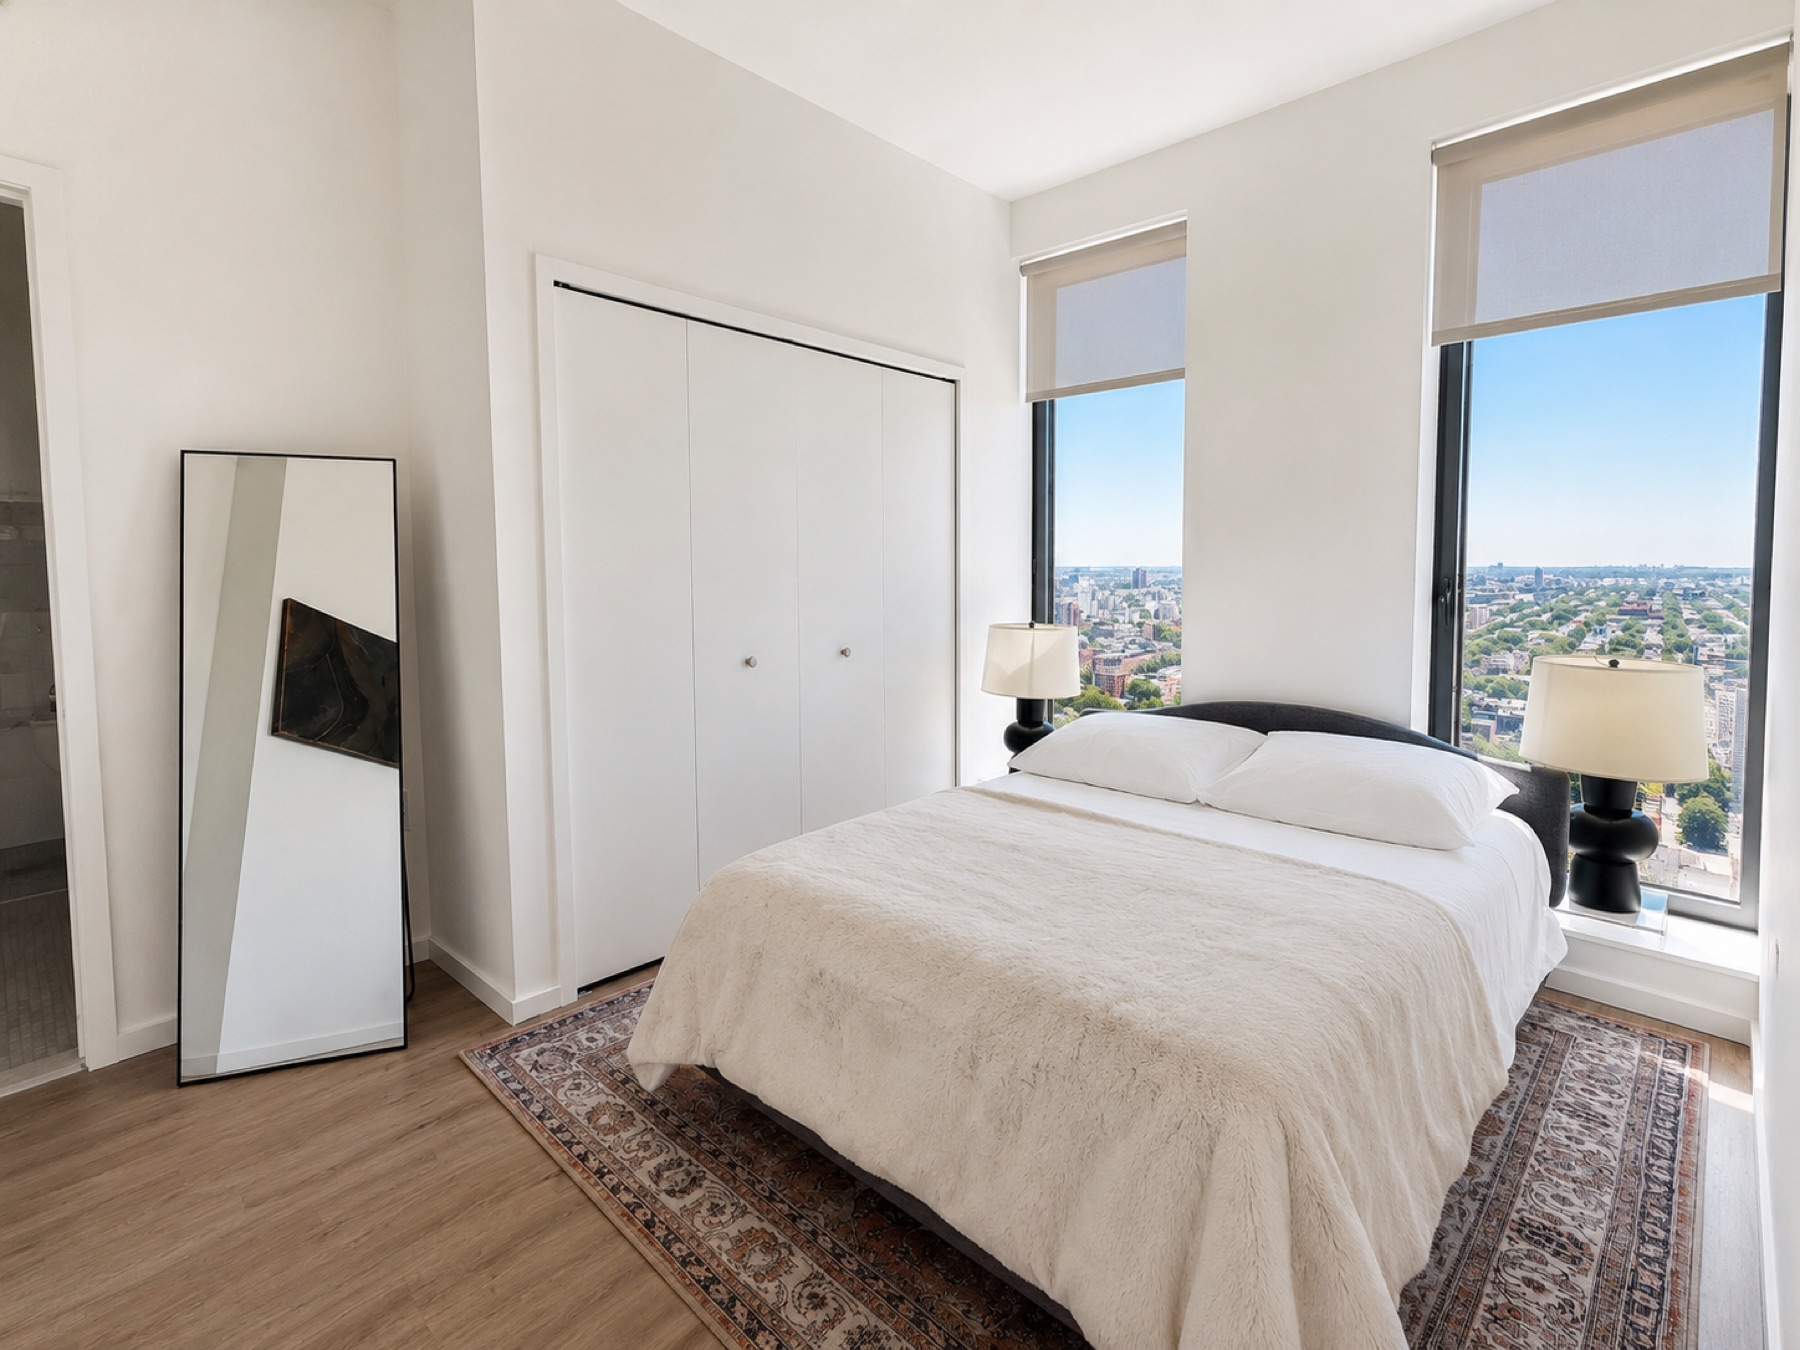
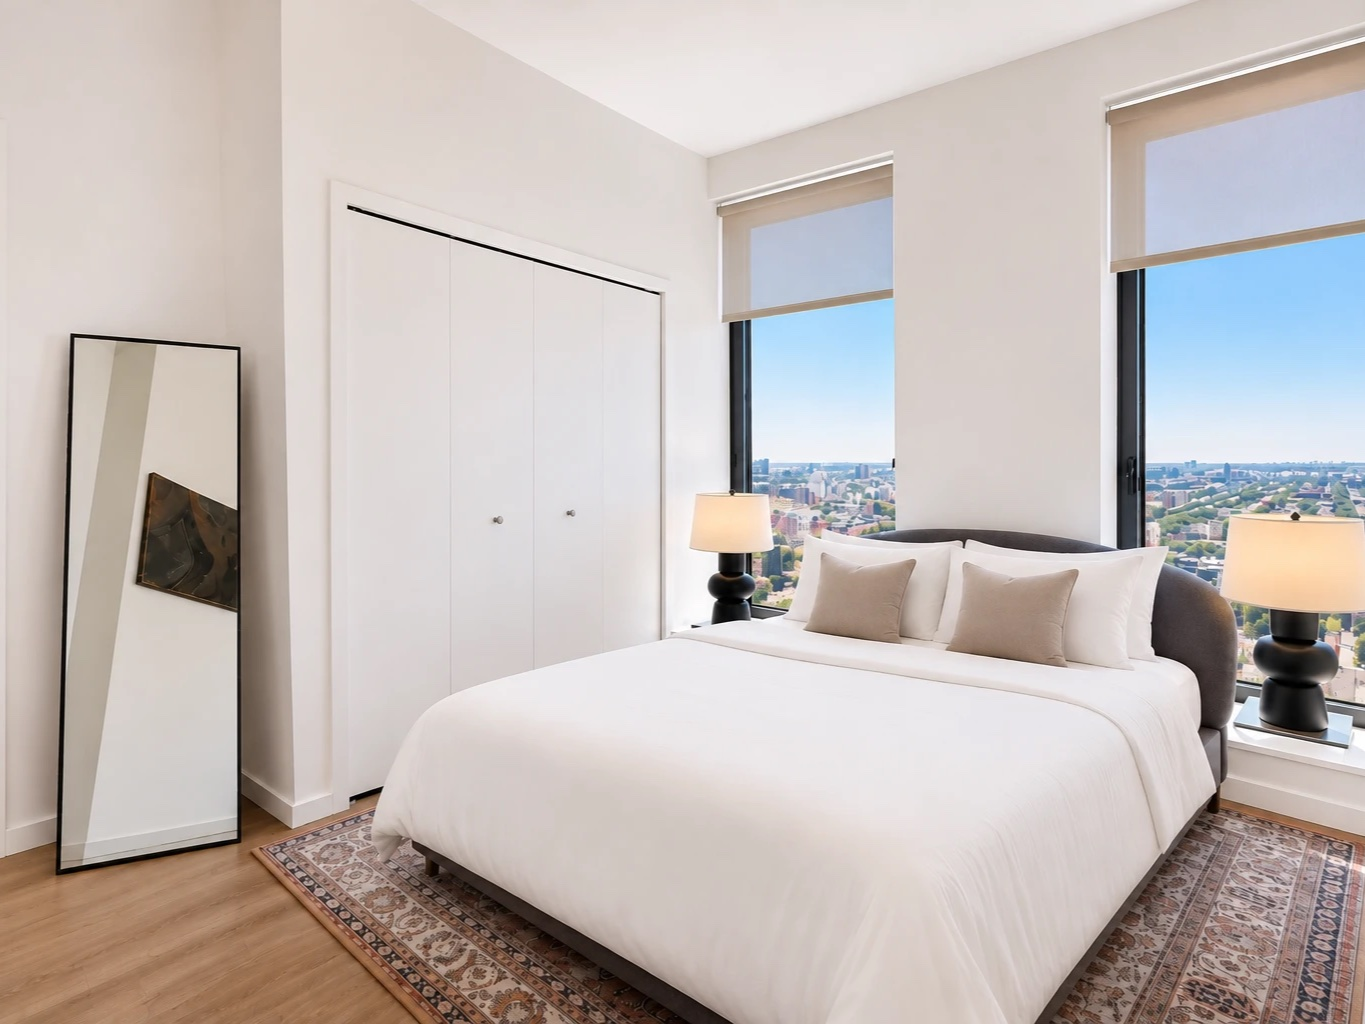
Axel 27B: refresh photos 1 to 5
Replaced the bedroom, kitchen and three living room shots with the new set,
matched to the slot each one duplicates. Photos 6 to 10 (laundry, bathroom,
gym, view, pool) are unchanged.

Sources are 3:2, centre-cropped to 4:3 at 1365x1024 so the lightbox shows no
grey bands. Card regenerated from the new photo 1. ?v=2 on all six filenames,
on the page and on the availability card.

diff --git a/availability.html b/availability.html
@@ -219,7 +219,7 @@
 
     <a class="pcard" href="morningside-108.html" data-id="p3" data-bld="b-morningside" data-hood="Morningside Heights" data-beds="3"><div class="img" data-bg="30-morningside-drive-108-git/30morn-108-1-card.jpg"></div><div class="body"><div><div class="name">30 Morningside Drive</div><div class="unit">Unit 108 &middot; Duplex</div><div class="hood">Morningside Heights, Manhattan</div></div><div><div class="meta"><span>3 Beds</span><span>2.5 Baths</span></div><div class="row"><span></span><span class="lnk">Inquire &#8594;</span></div></div></div></a>
 
-    <div class="pcard" data-id="p4" data-bld="b-axel" data-hood="Clinton Hill" data-beds="1"><a class="pcard-a" href="axel-27b.html"><div class="img" data-bg="the-axel-27B-git/Axel-27B-1-card.jpg"></div><div class="body"><div><div class="name">The Axel</div><div class="unit">Unit 27B</div><div class="hood">Clinton Hill, Brooklyn</div></div><div><div class="meta"><span>1 Bed</span><span>1 Bath</span></div><div class="row"><span></span><span class="lnk">View home &#8594;</span></div></div></div></a><div class="pcard-foot"><span class="avail-badge" data-avail-badge="axel-27b"></span><a class="pcard-book" href="axel-27b.html">Check dates &amp; price</a></div></div>
+    <div class="pcard" data-id="p4" data-bld="b-axel" data-hood="Clinton Hill" data-beds="1"><a class="pcard-a" href="axel-27b.html"><div class="img" data-bg="the-axel-27B-git/Axel-27B-1-card.jpg?v=2"></div><div class="body"><div><div class="name">The Axel</div><div class="unit">Unit 27B</div><div class="hood">Clinton Hill, Brooklyn</div></div><div><div class="meta"><span>1 Bed</span><span>1 Bath</span></div><div class="row"><span></span><span class="lnk">View home &#8594;</span></div></div></div></a><div class="pcard-foot"><span class="avail-badge" data-avail-badge="axel-27b"></span><a class="pcard-book" href="axel-27b.html">Check dates &amp; price</a></div></div>
 
     <div class="pcard" data-id="p5" data-bld="b-axel" data-hood="Clinton Hill" data-beds="1"><a class="pcard-a" href="axel-21b.html"><div class="img" data-bg="the-axel-21B-git/axel-21B-1-card.jpg"></div><div class="body"><div><div class="name">The Axel</div><div class="unit">Unit 21B</div><div class="hood">Clinton Hill, Brooklyn</div></div><div><div class="meta"><span>1 Bed</span><span>1 Bath</span></div><div class="row"><span></span><span class="lnk">View home &#8594;</span></div></div></div></a><div class="pcard-foot"><span class="avail-badge" data-avail-badge="axel-21b"></span><a class="pcard-book" href="axel-21b.html">Check dates &amp; price</a></div></div>
 
@@ -281,7 +281,7 @@
       id:'b-axel', name:'The Axel', sub:'Clinton Hill, Brooklyn',
       lat:40.6855, lng:-73.9695,
       units:[
-        {unit:'27B', meta:'1 Bed, 1 Bath', url:'axel-27b.html', img:'the-axel-27B-git/Axel-27B-1-card.jpg'},
+        {unit:'27B', meta:'1 Bed, 1 Bath', url:'axel-27b.html', img:'the-axel-27B-git/Axel-27B-1-card.jpg?v=2'},
         {unit:'21B', meta:'1 Bed, 1 Bath', url:'axel-21b.html', img:'the-axel-21B-git/axel-21B-1-card.jpg'},
         {unit:'24G', meta:'1 Bed, 1 Bath', url:'axel-24g.html', img:'the-axel-24G-git/axel-24G-1-card.jpg'}
       ]

diff --git a/axel-27b.html b/axel-27b.html
@@ -140,11 +140,11 @@
   </section>
 
   <section class="gallery">
-    <div class="gimg big" style="background-image:url('the-axel-27B-git/Axel-27B-1.jpg')" onclick="openLightbox(0)"></div>
-      <div class="gimg" style="background-image:url('the-axel-27B-git/Axel-27B-2.jpg')" onclick="openLightbox(1)"></div>
-      <div class="gimg" style="background-image:url('the-axel-27B-git/Axel-27B-3.jpg')" onclick="openLightbox(2)"></div>
-      <div class="gimg" style="background-image:url('the-axel-27B-git/Axel-27B-4.jpg')" onclick="openLightbox(3)"></div>
-      <div class="gimg" style="background-image:url('the-axel-27B-git/Axel-27B-5.jpg')" onclick="openLightbox(4)"></div>
+    <div class="gimg big" style="background-image:url('the-axel-27B-git/Axel-27B-1.jpg?v=2')" onclick="openLightbox(0)"></div>
+      <div class="gimg" style="background-image:url('the-axel-27B-git/Axel-27B-2.jpg?v=2')" onclick="openLightbox(1)"></div>
+      <div class="gimg" style="background-image:url('the-axel-27B-git/Axel-27B-3.jpg?v=2')" onclick="openLightbox(2)"></div>
+      <div class="gimg" style="background-image:url('the-axel-27B-git/Axel-27B-4.jpg?v=2')" onclick="openLightbox(3)"></div>
+      <div class="gimg" style="background-image:url('the-axel-27B-git/Axel-27B-5.jpg?v=2')" onclick="openLightbox(4)"></div>
       <div class="gimg" style="background-image:url('the-axel-27B-git/axel-27B-6.JPG')" onclick="openLightbox(5)"></div>
       <div class="gimg" style="background-image:url('the-axel-27B-git/axel-27B-7.jpg')" onclick="openLightbox(6)"></div>
       <div class="gimg" style="background-image:url('the-axel-27B-git/axel-27B-8.jpg')" onclick="openLightbox(7)"></div>
@@ -188,7 +188,7 @@
 
 <script src="https://unpkg.com/leaflet@1.9.4/dist/leaflet.js" integrity="sha384-cxOPjt7s7Iz04uaHJceBmS+qpjv2JkIHNVcuOrM+YHwZOmJGBXI00mdUXEq65HTH" crossorigin="anonymous" referrerpolicy="no-referrer"></script>
 <script>
-  const photos = ['the-axel-27B-git/Axel-27B-1.jpg','the-axel-27B-git/Axel-27B-2.jpg','the-axel-27B-git/Axel-27B-3.jpg','the-axel-27B-git/Axel-27B-4.jpg','the-axel-27B-git/Axel-27B-5.jpg','the-axel-27B-git/axel-27B-6.JPG','the-axel-27B-git/axel-27B-7.jpg','the-axel-27B-git/axel-27B-8.jpg','the-axel-27B-git/axel-27B-9.jpg','the-axel-27B-git/axel-27B-10.jpg'];
+  const photos = ['the-axel-27B-git/Axel-27B-1.jpg?v=2','the-axel-27B-git/Axel-27B-2.jpg?v=2','the-axel-27B-git/Axel-27B-3.jpg?v=2','the-axel-27B-git/Axel-27B-4.jpg?v=2','the-axel-27B-git/Axel-27B-5.jpg?v=2','the-axel-27B-git/axel-27B-6.JPG','the-axel-27B-git/axel-27B-7.jpg','the-axel-27B-git/axel-27B-8.jpg','the-axel-27B-git/axel-27B-9.jpg','the-axel-27B-git/axel-27B-10.jpg'];
   let currentPhoto = 0;
   function openLightbox(i) {
     currentPhoto = i;
